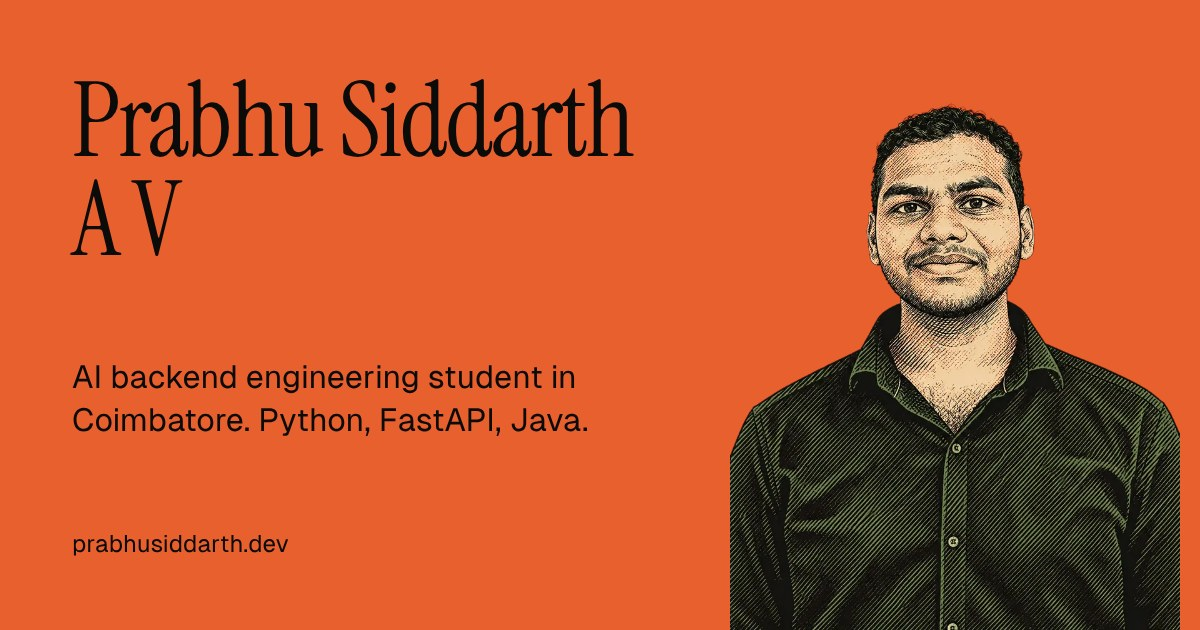
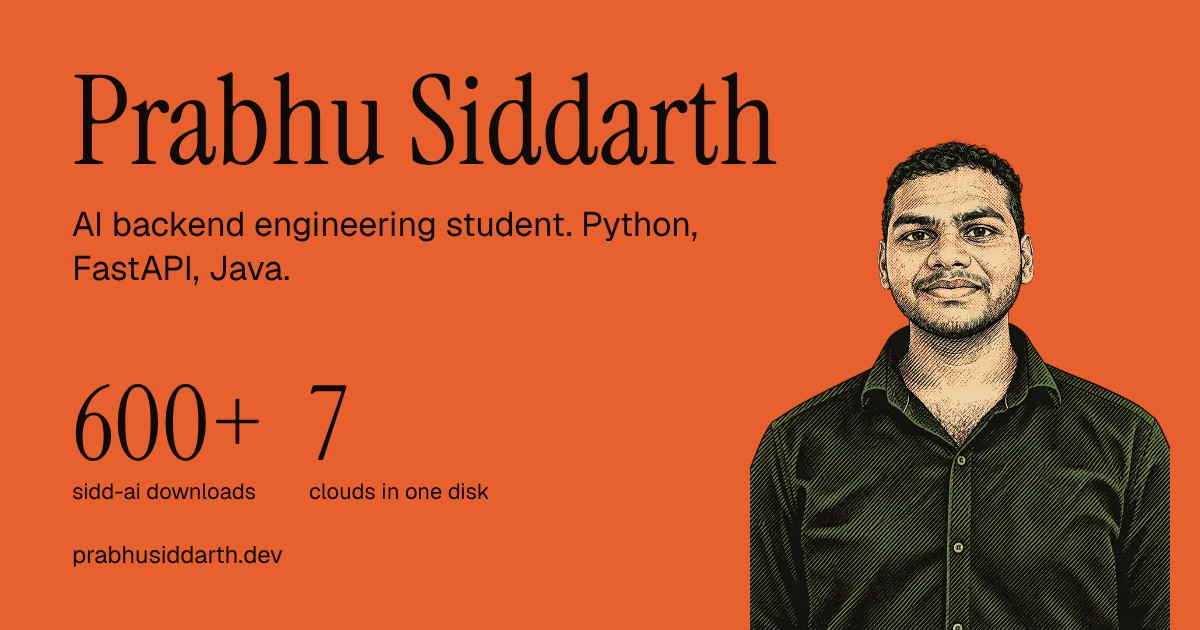
Share polish: metric-led meta, before/after in project heroes, regenerated OG images
Claude-Session: https://claude.ai/code/session_014hfn6aVxCZAD6WkVtDMoV6

diff --git a/src/seo.ts b/src/seo.ts
@@ -15,18 +15,18 @@ const flag = (slug: string, title: string, description: string): Page => ({
 export const PAGES: Record<string, Page> = {
   '/': {
     title: 'Prabhu Siddarth A V | AI Backend Engineer, Coimbatore',
-    description: 'AI backend engineering student in Coimbatore building with Python, FastAPI and Java: NexusCloud, sidd-ai, Coedit and Swara. Resume and contact.',
+    description: 'AI backend student in Coimbatore. Built sidd-ai (600+ Maven Central downloads), NexusCloud (7 clouds, one disk), Coedit and Swara.',
     image: '/og/home.jpg',
     theme: '#EEEAE2',
   },
-  '/nexuscloud': flag('nexuscloud', 'NexusCloud: multi-cloud storage router | Prabhu Siddarth',
-    'NexusCloud pools the free tiers of seven cloud providers into one disk with a FastAPI scoring router and presigned uploads.'),
-  '/sidd-ai': flag('sidd-ai', 'sidd-ai: Java LLM SDK on Maven Central | Prabhu Siddarth',
-    'Open-source Java SDK that calls OpenAI, Claude, Gemini, Ollama and more through one method. Apache 2.0, on Maven Central.'),
-  '/coedit': flag('coedit', 'Coedit: self-hosted docs, sheets and AI council | Prabhu Siddarth',
-    'Realtime co-edited docs, spreadsheets and canvases with an optional AI council. Built with Next.js, Yjs and FastAPI.'),
-  '/swara': flag('swara', 'Swara: offline Android music player | Prabhu Siddarth',
-    'Offline Android music player with on-device vocal removal, voice commands and eight themes. No internet permission.'),
+  '/nexuscloud': flag('nexuscloud', 'NexusCloud: 7 cloud free tiers, one disk | Prabhu Siddarth',
+    '70GB+ of free tiers across 7 clouds as one disk. A FastAPI router picks the bucket; files upload direct, 0 bytes proxied.'),
+  '/sidd-ai': flag('sidd-ai', 'sidd-ai: Java LLM SDK, 600+ downloads | Prabhu Siddarth',
+    '600+ Maven Central downloads. One Java call for 8 AI providers: OpenAI, Claude, Gemini, Ollama and more. Apache 2.0.'),
+  '/coedit': flag('coedit', 'Coedit: realtime docs, sheets + AI council | Prabhu Siddarth',
+    'Self-hosted realtime docs, sheets and canvases. An AI council turns a rough idea into a 3-file engineering handoff pack.'),
+  '/swara': flag('swara', 'Swara: offline karaoke music player | Prabhu Siddarth',
+    'Offline Android music player with live on-device vocal removal (~23ms added latency). No account, no internet permission.'),
 };
 
 const url = (p: string) => SITE + p;
@@ -80,7 +80,8 @@ const esc = (s: string) => s.replace(/&/g, '&amp;').replace(/"/g, '&quot;').repl
 /** The <head> block the prerender writes for a route. */
 export function headFor(path: string) {
   const p = PAGES[path];
-  const img = SITE + p.image;
+  // Bump when the images change: LinkedIn, X and WhatsApp cache previews by URL.
+  const img = `${SITE}${p.image}?v=2`;
   const meta = (attr: string, key: string, value: string) => `<meta ${attr}="${key}" content="${esc(value)}" />`;
   return [
     `<title>${esc(p.title)}</title>`,

diff --git a/src/index.css b/src/index.css
@@ -299,12 +299,16 @@ a:hover .arrow { transform: translate(3px, -3px); }
    Flagship product pages
    ========================================================================== */
 .product { --page-bg: var(--p-bg); --page-fg: var(--p-fg); --page-accent: var(--p-accent); background: var(--p-bg); color: var(--p-fg); }
-.p-hero { min-height: 100svh; display: flex; flex-direction: column; justify-content: flex-end; padding: 7rem var(--gutter) var(--gutter); position: relative; overflow: hidden; }
+.p-hero { min-height: 100svh; display: flex; flex-direction: column; justify-content: flex-end; padding: 5.5rem var(--gutter) var(--gutter); position: relative; overflow: hidden; }
 .p-hero-top { display: flex; justify-content: space-between; gap: 1rem; margin-bottom: auto; padding-top: 1rem; }
 .p-title { font-size: clamp(4.5rem, 19vw, 19rem); }
-.p-hero-grid { display: grid; grid-template-columns: 1.4fr 1fr 1fr; gap: var(--gutter); padding-top: 1.6rem; border-top: 1px solid var(--page-line); margin-top: 1.4rem; align-items: end; }
-.p-metrics { display: flex; gap: clamp(1.5rem, 3vw, 3rem); }
-.p-metrics b { display: block; font-family: var(--serif); font-weight: 400; font-size: clamp(2.2rem, 4vw, 3.6rem); line-height: 1; letter-spacing: -0.02em; }
+.p-hero-grid { display: grid; grid-template-columns: 1.2fr 1.6fr .7fr; gap: var(--gutter); padding-top: 1.2rem; border-top: 1px solid var(--page-line); margin-top: .9rem; align-items: end; }
+.p-story { display: grid; grid-template-columns: 1fr 1fr; gap: var(--gutter); margin: 1rem 0 0; padding-top: .8rem; border-top: 1px solid var(--page-line); }
+.p-story dd { margin: .4rem 0 0; font-family: var(--serif); font-size: clamp(1.25rem, 1.7vw, 1.6rem); line-height: 1.15; }
+.p-story div:last-child dt { color: var(--p-accent); }
+@media (max-width: 640px) { .p-story { grid-template-columns: 1fr; gap: .9rem; } }
+.p-metrics { display: flex; flex-wrap: wrap; gap: 1rem clamp(1.2rem, 2.4vw, 2.6rem); }
+.p-metrics b { display: block; font-family: var(--serif); font-weight: 400; font-size: clamp(2.6rem, 4.2vw, 4.2rem); line-height: 1; letter-spacing: -0.02em; }
 .p-stack { display: flex; flex-wrap: wrap; gap: 0.4rem; }
 .p-stack span { font-family: var(--mono); font-size: 11px; padding: 0.35rem 0.7rem; border: 1px solid var(--page-line); border-radius: 999px; }
 .panel { border: 1px solid var(--page-line); border-radius: 18px; padding: clamp(1.2rem, 2.6vw, 2.2rem); position: relative; overflow: hidden; }

diff --git a/src/components/ProductShell.tsx b/src/components/ProductShell.tsx
@@ -60,6 +60,10 @@ export default function ProductShell({ f, links, heroExtra, children }: Props) {
           <p data-hero-fade className="display h-sm italic" style={{ marginTop: '0.6rem' }}>{f.tagline}</p>
           {heroExtra}
         </div>
+        <dl data-hero-fade className="p-story">
+          <div><dt className="mono muted">Before</dt><dd>{f.before}</dd></div>
+          <div><dt className="mono muted">What I built</dt><dd>{f.after}</dd></div>
+        </dl>
         <div className="p-hero-grid">
           <p data-hero-fade className="body" style={{ color: f.fg, opacity: 0.85 }}>{f.summary}</p>
           <div data-hero-fade className="p-metrics">

diff --git a/scripts/og.py b/scripts/og.py
@@ -1,0 +1,42 @@
+"""Regenerates public/og/*.jpg (1200x630). Run from the repo root: python3 scripts/og.py"""
+import base64, pathlib
+from playwright.sync_api import sync_playwright
+
+root = pathlib.Path.cwd()
+def data(path, mime):
+    return f"data:{mime};base64," + base64.b64encode((root / path).read_bytes()).decode()
+font = lambda n: data(f"resume/fonts/{n}.woff2", "font/woff2")
+
+# slug: (title, line, background, text, metrics, image)
+CARDS = {
+  "home": ("Prabhu Siddarth", "AI backend engineering student. Python, FastAPI, Java.", "#E8602E", "#0d0b08",
+           [("600+", "sidd-ai downloads"), ("7", "clouds in one disk")], data("public/portrait-cutout.webp", "image/webp")),
+  "sidd-ai": ("sidd-ai", "Any AI model, one line of Java.", "#08080D", "#ECEAF6",
+           [("600+", "Maven Central downloads"), ("8", "AI providers")], data("public/logos/sidd-ai.png", "image/png")),
+  "nexuscloud": ("NexusCloud", "Seven free tiers, one disk.", "#E6EBF1", "#0A1626",
+           [("7", "cloud providers"), ("70GB+", "free tiers"), ("0", "bytes proxied")], data("public/logos/nexuscloud.svg", "image/svg+xml")),
+  "coedit": ("Coedit", "Realtime docs, sheets and an AI council.", "#F2E8D0", "#121210",
+           [("3", "files per council run"), ("30s", "live role re-check")], data("public/logos/coedit.svg", "image/svg+xml")),
+  "swara": ("Swara", "Offline karaoke, on your phone.", "#000000", "#F2F2F7",
+           [("~23ms", "latency added"), ("No", "internet permission")], data("public/logos/swara.png", "image/png")),
+}
+CSS = f"""@font-face{{font-family:S;src:url({font('InstrumentSerif-400-normal')})}}
+@font-face{{font-family:G;src:url({font('Geist-500-normal')})}}
+*{{margin:0;box-sizing:border-box}}body{{width:1200px;height:630px;position:relative;overflow:hidden;font-family:G}}
+.c{{position:absolute;inset:60px 72px;display:flex;flex-direction:column}}
+h1{{font:400 124px/1 S;white-space:nowrap}}p{{font-size:34px;line-height:1.3;margin-top:18px;max-width:640px}}
+.m{{display:flex;gap:44px;margin-top:auto;margin-bottom:34px}}.m b{{display:block;font:400 104px/1 S}}.m span{{font-size:22px}}
+small{{font-size:24px}}img{{position:absolute}}.logo{{right:80px;top:170px;width:270px;height:270px;object-fit:contain;border-radius:28px}}
+.face{{right:30px;bottom:0;height:560px}}"""
+
+with sync_playwright() as pw:
+    browser = pw.chromium.launch()
+    page = browser.new_page(viewport={"width": 1200, "height": 630})
+    for slug, (title, line, bg, fg, metrics, img) in CARDS.items():
+        m = "".join(f"<div><b>{v}</b><span>{label}</span></div>" for v, label in metrics)
+        cls = "face" if slug == "home" else "logo"
+        page.set_content(f"<style>{CSS}</style><body style='background:{bg};color:{fg}'><img class={cls} src='{img}'>"
+                         f"<div class=c><h1>{title}</h1><p>{line}</p><div class=m>{m}</div><small>prabhusiddarth.dev</small></div></body>")
+        page.evaluate("document.fonts.ready")
+        page.screenshot(path=f"public/og/{slug}.jpg", type="jpeg", quality=90)
+    browser.close()
